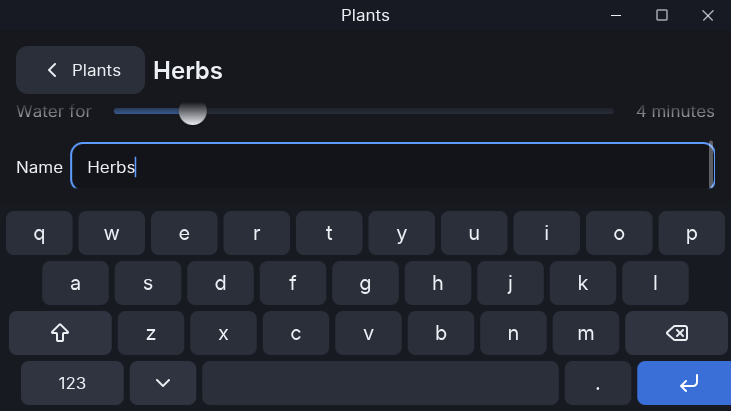
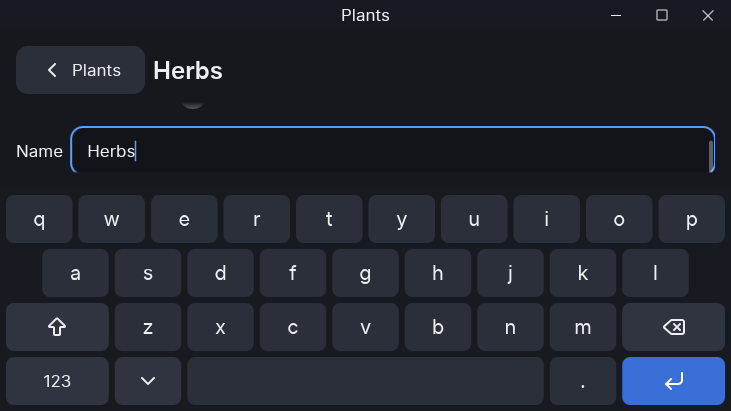
Fit the keyboard's bottom row, and give kmshello a tour for the Pi
The keyboard measured a key as wide as several without the gaps it
spans, so the bottom row ran past the right edge. Its keys are now 48
tall under the touch theme, as every target is.

kmshello -show tour walks the screens by itself, a step a second, for
measuring frames on the hardware with GUNIM_DEBUG_FRAMES=1.

diff --git a/example/kmshello/main.go b/example/kmshello/main.go
@@ -15,6 +15,8 @@
 //	go run ./example/kmshello
 //
 // -light draws it in the light theme, and -shot file.png saves a picture of it and ends, for documentation.
+// -show tour walks the screens by itself, a step a second, for measuring frames on the hardware with
+// GUNIM_DEBUG_FRAMES=1.
 package main
 
 import (
@@ -40,7 +42,8 @@ type (
 	// Plants is what the panel shows.
 	Plants struct {
 		Beds []Bed
-		// Show is the screen to open on, for a picture of it: "", "bed", "name" or "pin".
+		// Show is the screen to open on, for a picture of it: "", "bed", "name" or "pin". "tour" walks the screens
+		// one step a second, for measuring how the panel draws while it moves.
 		Show string
 	}
 	// Bed is one bed: its name, how moist its soil is in per cent, whether it is being watered, whether it is
@@ -92,7 +95,7 @@ func main() {
 	var k kmsFlags
 	flag.BoolVar(&o.light, "light", false, "draw in the light theme")
 	flag.StringVar(&o.shot, "shot", "", "save a picture of the panel to this PNG file, and end")
-	flag.StringVar(&o.show, "show", "", `open on a screen, for a picture: "bed", "name" or "pin"`)
+	flag.StringVar(&o.show, "show", "", `open on a screen, for a picture: "bed", "name" or "pin"; "tour" walks them`)
 	desktop := flag.Bool("window", !kmsDefault(), "open a window on the desktop, not the full screen through KMS")
 	k.add()
 	flag.Parse()

diff --git a/widget/touchkit_test.go b/widget/touchkit_test.go
@@ -64,7 +64,7 @@ func TestTheTouchThemeFollowsTheDesignLanguage(t *testing.T) {
 		t.Fatal("the touch theme sets text in another face than Inter")
 	}
 	for _, tok := range []theme.Token[float32]{ButtonHeight, FieldHeight, ControlHeight, MenuRowHeight, TabHeight,
-		SegmentedHeight, ChipHeight, NavRowHeight, PinKeyLeast} {
+		SegmentedHeight, ChipHeight, NavRowHeight, PinKeyLeast, KeyboardKey} {
 		if v := tok.Get(th); v < 48 {
 			t.Errorf("%s is %v under the touch theme, want 48 or more", tok.Key(), v)
 		}
@@ -689,6 +689,14 @@ func TestAKeyboardSlidesUpForAField(t *testing.T) {
 	}
 	if !k.Shown() || last > 400-k.height+0.5 {
 		t.Fatalf("open, the keyboard's top is at %v, want %v", last, 400-k.height)
+	}
+	for i, r := range k.rects {
+		if r.Min.X < 0 || r.Max.X > 600 || r.Max.Y > 400 {
+			t.Fatalf("key %d lies at %v, outside the keyboard's 600 by 400", i, r)
+		}
+		if r.Size().H < KeyboardKey.Get(theme.NewLive(Dark().With(Touch...))) {
+			t.Fatalf("key %d is %v tall", i, r.Size().H)
+		}
 	}
 	g.ui.Focus(nil)
 	run(60)

diff --git a/widget/keyboard.go b/widget/keyboard.go
@@ -382,20 +382,20 @@ func (k *Keyboard) Layout(c gunim.Constraints, f gunim.Frame, kids gunim.Childre
 	child.Layout(gunim.Tight(geom.Sz(size.W, max(size.H-shown, 0))))
 	child.Place(geom.Point{})
 
-	// The keys: ten to a row, each row centred.
+	// The keys: ten to a row, each row centred. A key as wide as several takes the gaps between them too.
 	unit := (size.W - 11*gap) / 10
+	wide := func(key kbKey) float32 { return key.wide*unit + (key.wide-1)*gap }
 	k.rects = k.rects[:0]
 	y := k.top + gap
 	for _, row := range rows {
 		w := -gap
 		for _, key := range row {
-			w += key.wide*unit + gap
+			w += wide(key) + gap
 		}
 		x := (size.W - w) / 2
 		for _, key := range row {
-			kw := key.wide*unit + (key.wide-1)*gap
-			k.rects = append(k.rects, geom.Rc(x, y, kw, h))
-			x += kw + gap
+			k.rects = append(k.rects, geom.Rc(x, y, wide(key), h))
+			x += wide(key) + gap
 		}
 		y += h + gap
 	}

diff --git a/example/kmshello/panel.go b/example/kmshello/panel.go
@@ -75,7 +75,29 @@ func (p *panel) show(s Plants, u *gunim.UI) {
 		p.opened = true
 		u.Focus(p.screen.name)
 	}
+	if !p.opened && s.Show == "tour" {
+		p.opened = true
+		p.tour(0, u)
+	}
 	u.Invalidate()
+}
+
+// tour walks the screens, one step a second, for measuring how the panel draws while it moves: a bed's screen
+// slides in, its keyboard comes up and goes down, the screen slides out, and the PIN pad slides in and out.
+func (p *panel) tour(step int, u *gunim.UI) {
+	switch step % 6 {
+	case 0:
+		p.open(step/6%len(p.beds), u)
+	case 1:
+		u.Focus(p.screen.name)
+	case 2:
+		u.Focus(nil)
+	case 3, 5:
+		p.stack.Pop(u)
+	case 4:
+		p.stack.Push(p.pinScreen(), u)
+	}
+	u.After(time.Second, func(u *gunim.UI) { p.tour(step+1, u) })
 }
 
 // open pushes bed i's own screen.

diff --git a/widget/touchkit.go b/widget/touchkit.go
@@ -93,6 +93,7 @@ var Touch = []theme.Entry{
 	theme.Set(TreeRowHeight, 48),
 	theme.Set(PaletteRowHeight, 48),
 	theme.Set(ListSpacing, 8),
+	theme.Set(KeyboardKey, 48),
 
 	theme.Set(Gap, 8),
 	theme.Set(Margin, geom.Uniform(16)),
